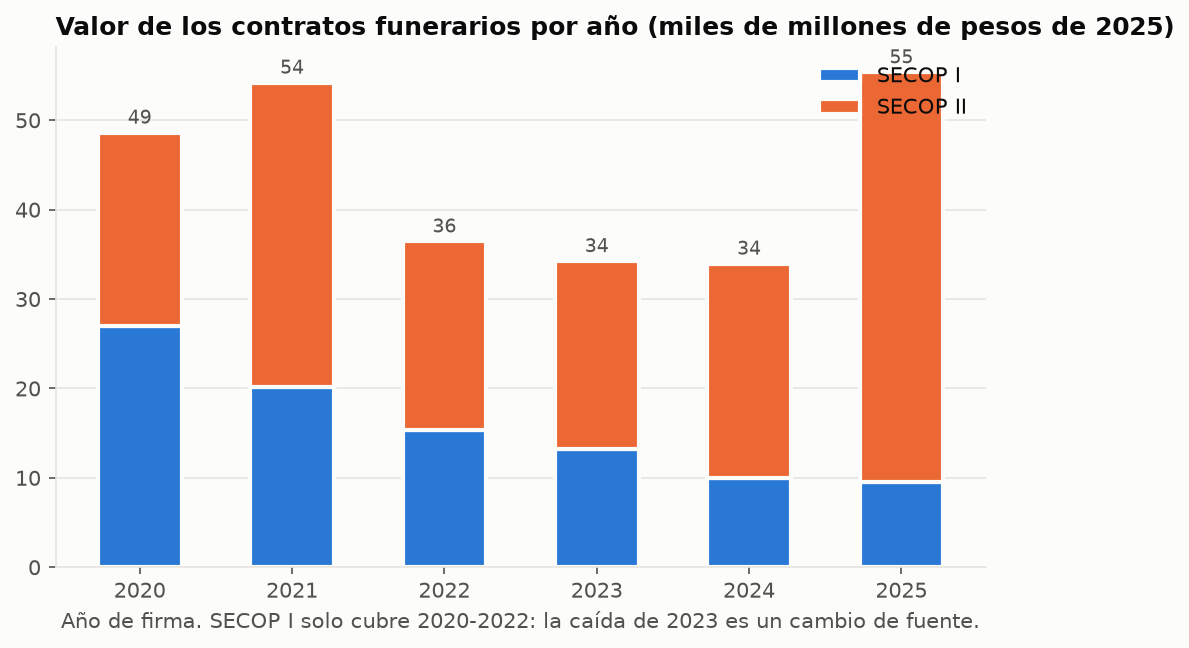
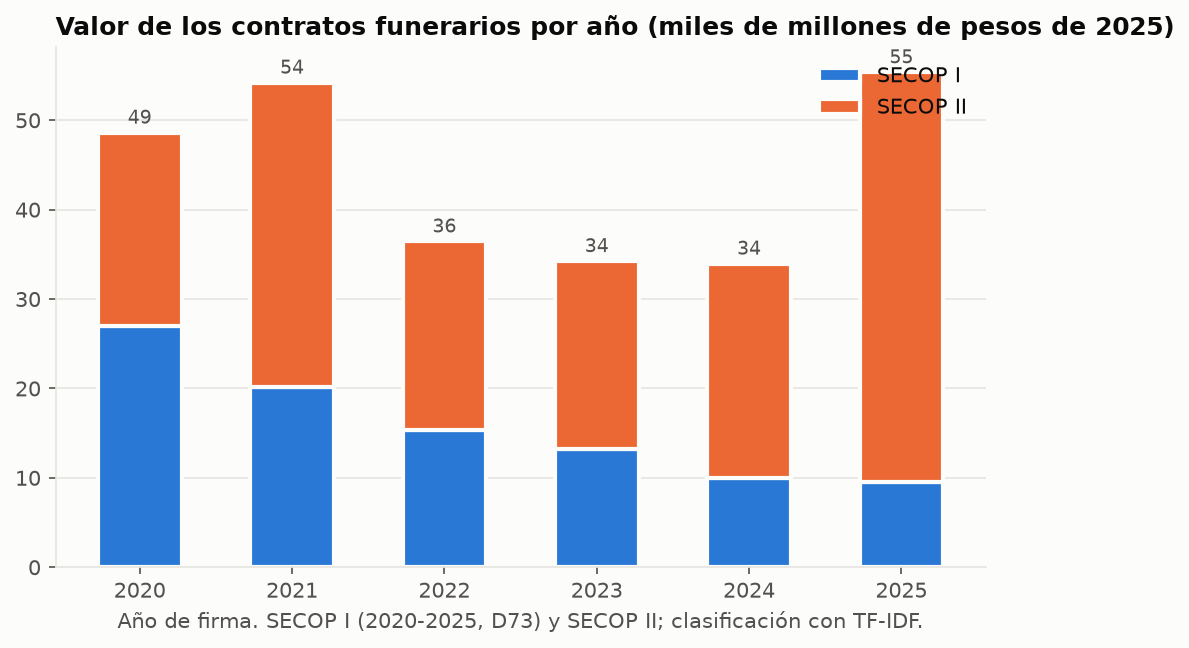
fix(modelos): nota del gráfico de la serie anual con SECOP I completo

Changed region(s): [[0.0622, 0.9259, 0.8091, 0.9877]]

diff --git a/src/modelos/mercado_graficos.py b/src/modelos/mercado_graficos.py
@@ -50,7 +50,7 @@ def serie_anual(t):
     for x, y in inferior.items():
         ax.text(x, y + 1, f"{y:.0f}", ha="center", color=TEXTO_2, fontsize=9)
     ax.set_title("Valor de los contratos funerarios por año (miles de millones de pesos de 2025)")
-    ax.set_xlabel("Año de firma. SECOP I solo cubre 2020-2022: la caída de 2023 es un cambio de fuente.")
+    ax.set_xlabel("Año de firma. SECOP I (2020-2025, D73) y SECOP II; clasificación con TF-IDF.")
     rejilla(ax)
     ax.legend(frameon=False, loc="upper right")
     guardar(fig, "1_serie_anual_pesos_constantes.png")
